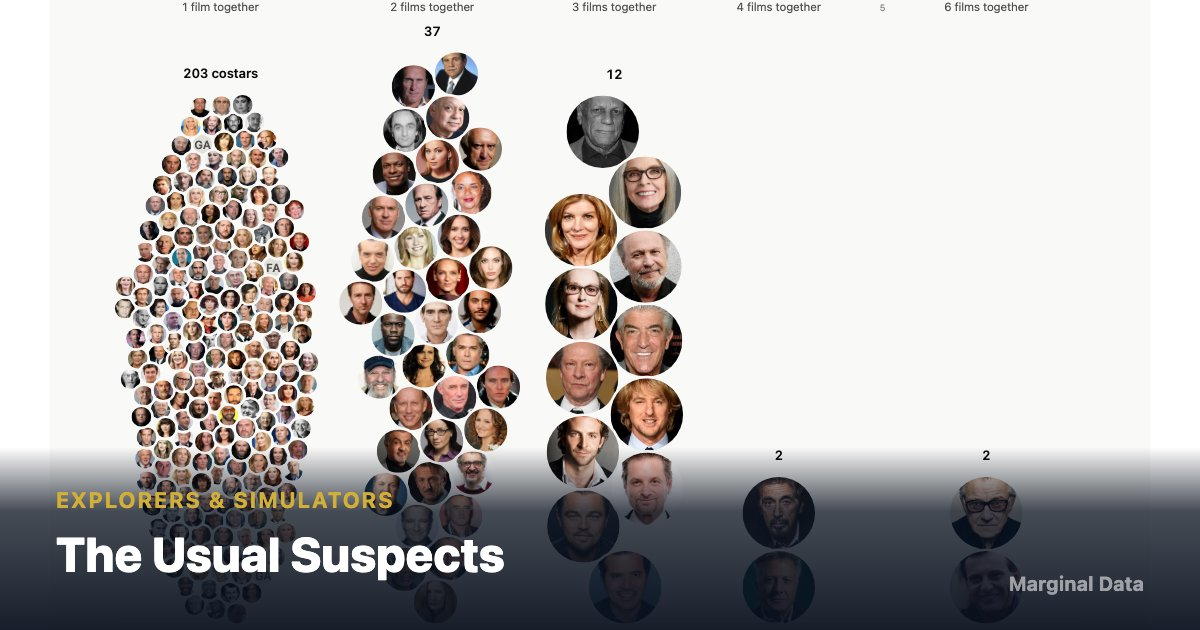
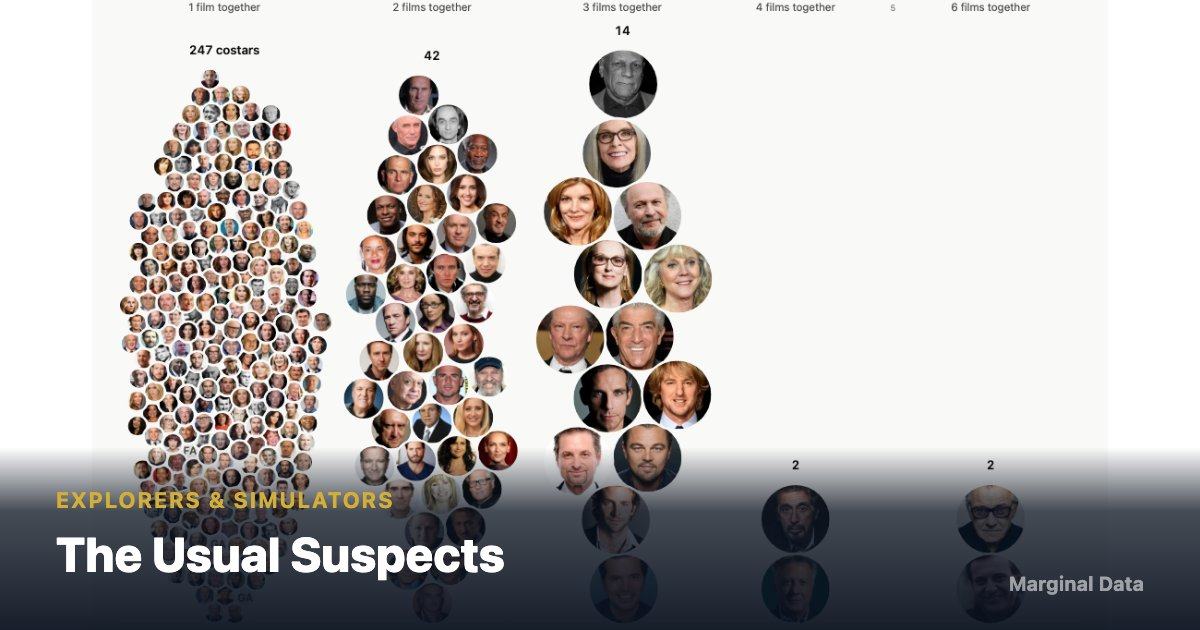
UsualSuspects: re-verify against the regenerated pool
The --min-votes-sum5 fame fix (fb2d7ca) grew the pool 2,465 -> 2,839
actors, which invalidated a few things pinned to the old numbers.

Re-captured the OG card: De Niro's staircase is now 247/42/14/2/2, so the
capture viewport is re-tuned 1200x1050 -> 1300x1100 to hold the ratio.

Fixed a real capture bug found doing it - avatars are SVG <image>, which
paints nothing until its href resolves, so a half-loaded chart isn't
visibly half-loaded: it's a column labelled "42" with three faces under it,
which is exactly what the first re-capture produced. networkidle fired too
early; the pose now explicitly waits for every avatar URL to settle.

Corrected two comments that no longer matched measured reality, including
the MIN_SCALE rationale: the floor no longer guarantees a fit at 1440x900
(Dafoe pins 0.65 needing 0.626, De Niro needing 0.643, both overflowing by
5-19px into the vertical scroll the floor exists to allow). Left the
constant alone - lowering it trades the legibility it protects.

The subtitle's four costar pairs were re-checked against the new pool and
are unchanged: 7 / 3 / 4 / 3.

diff --git a/src/2026/UsualSuspects/App.tsx b/src/2026/UsualSuspects/App.tsx
@@ -42,9 +42,17 @@ const VIEWPORT_GUTTER = 24;
 // pushes sizeForBucket's computed diameter below minNodeSize (beeswarm.ts),
 // avatar size clamps to that floor and stops shrinking with the target, so
 // the pack's real height stops responding to how much we compress the
-// layout - only the tallest two actors in the whole pool (Samuel L. Jackson
-// and Willem Dafoe, both ~227-person singleton buckets) land here, needing
-// ~0.66; 0.7 left exactly those two overflowing the viewport by a hair.
+// layout - only the very tallest actors in the pool land here.
+//
+// Re-measured 2026-09-09 after the pool grew to 2,839 actors (the
+// --min-votes-sum5 fame fix), which pushed the biggest singleton buckets
+// from ~227 to 278 (Samuel L. Jackson) and 268 (Willem Dafoe). The floor no
+// longer guarantees a fit at 1440x900: Dafoe pins 0.65 but needs 0.626, and
+// De Niro pins it needing 0.643, so both overflow the bottom by 5-19px and
+// fall back to the vertical scroll this floor exists to allow. Jackson,
+// oddly, is no longer one of them (he settles at 0.692, inside the floor).
+// Dropping the floor to ~0.62 would restore the fit at the cost of the
+// legibility this constant is protecting - deliberately not done here.
 const MIN_SCALE = 0.65;
 // Real minimum touch-target radius, in CSS px - half of the ~44px guideline.
 // Divided by `scale` below wherever it's used, since this needs to hold
@@ -444,8 +452,8 @@ export default function App() {
           Ryder. Some actors share the silver screen more than others. Type a
           name
           {/* Gated on `data` (the full pool), not `activeData` - the bundled
-              default slice's count (1,389) is real but wrong for this claim
-              until the full pool (2,465) lands, so the figure is omitted
+              default slice's count (1,612) is real but wrong for this claim
+              until the full pool (2,839) lands, so the figure is omitted
               rather than shown wrong for the first ~2s of every load. */}
           {data && <> from this pool of {data.actors.length.toLocaleString()} actors</>} to see
           their costars, and {compact ? "tap" : "click"} on anyone to see the films they share.

diff --git a/.claude/usual-suspects-ux-spec.md b/.claude/usual-suspects-ux-spec.md
@@ -7,6 +7,12 @@
 > recording *why* a past decision was made — notably §"Disown the path
 > framing", whose whole argument is what led to this rename. Copy quoted from
 > that section no longer matches the page verbatim.
+>
+> **Pool baselines below are also stale.** The measurements in this doc were
+> taken against the 2,465-actor pool; a fame-filter fix on 2026-09-09
+> (`--min-votes-sum5`) grew it to 2,839 actors / 15,985 movies / 82,812
+> edges, and grew the tallest columns with it (Jackson 227 -> 278, Dafoe
+> 227 -> 268). Re-measure before trusting any number in the table below.
 
 Handoff spec. Branch `6-degrees-of`, last commit `c4ca17d`. Everything below is
 scoped to `src/2026/UsualSuspects/` plus two lines in `src/routes.ts`.
